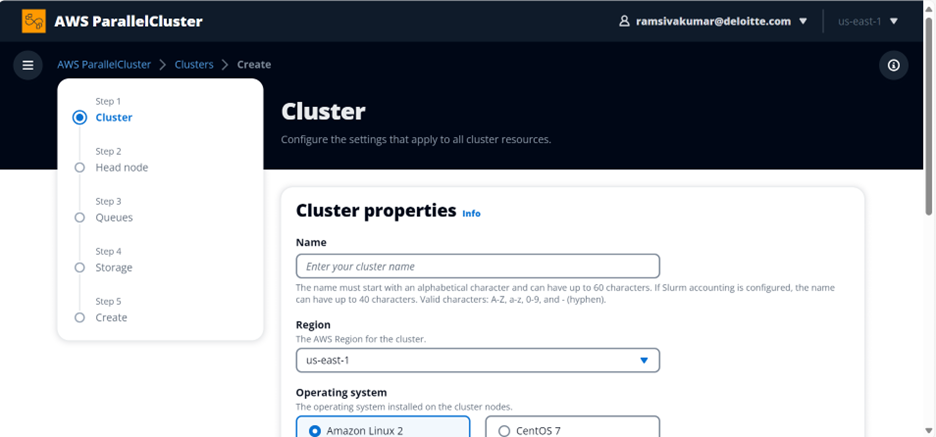
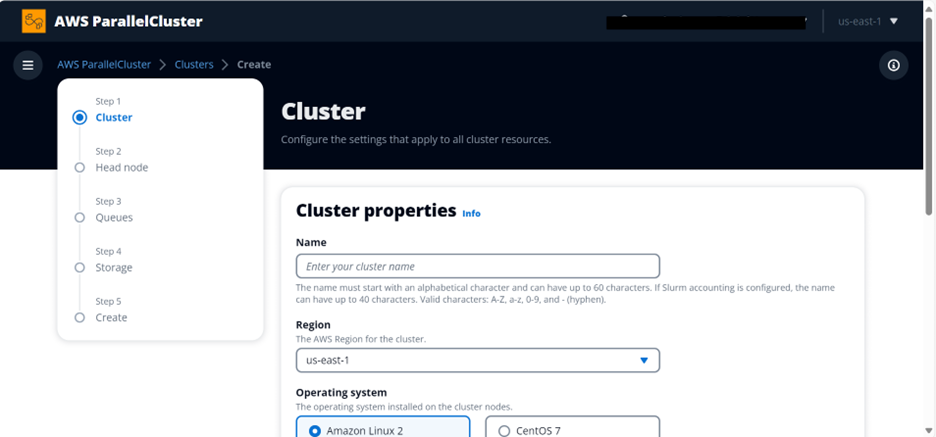
upated parallel cluster tutorial and images to remove emails and moved pricing section up

Changed region(s): [[0.6506, 0.0297, 0.8675, 0.0892]]

diff --git a/docs/Install_AWSParallelCluster.md b/docs/Install_AWSParallelCluster.md
@@ -28,7 +28,7 @@ The quick link for creating this stack within the us-east-1 region can be found 
 14. Enter the temporary password. Follow the steps to create your own password and log in.
 15. You are now on the home page of the PCUI in the AWS Region that you selected.
 
-   ![parallel cluster UI image](/docs/images/ParallelclusterUI.PNG)
+   ![parallel cluster UI image](images/ParallelclusterUI.PNG)
 
  
 # Installing the AWS ParallelCluster CLI:
@@ -123,7 +123,7 @@ export PATH="$HOME/mambaforge/bin:$PATH"
     Output should display version number.
 
  ## 5. Move on to configuring and connecting to your cluster
- Follow the [next instructions](/docs/Configure_AWSParallelCluster.md) on how to configure your cluster.
+ Follow the [next instructions](/docs/Configure_AWSParallelCluster.md) on how to configure your cluster via the command line. Otherwise checkout our tutorial for using Parallel Cluster via the console to run Snakemake workflows [here](https://github.com/STRIDES/NIHCloudLabAWS/blob/aws-parallel-cluster/notebooks/Snakemake/AWS-ParallelCluster.ipynb).
 
 
 
